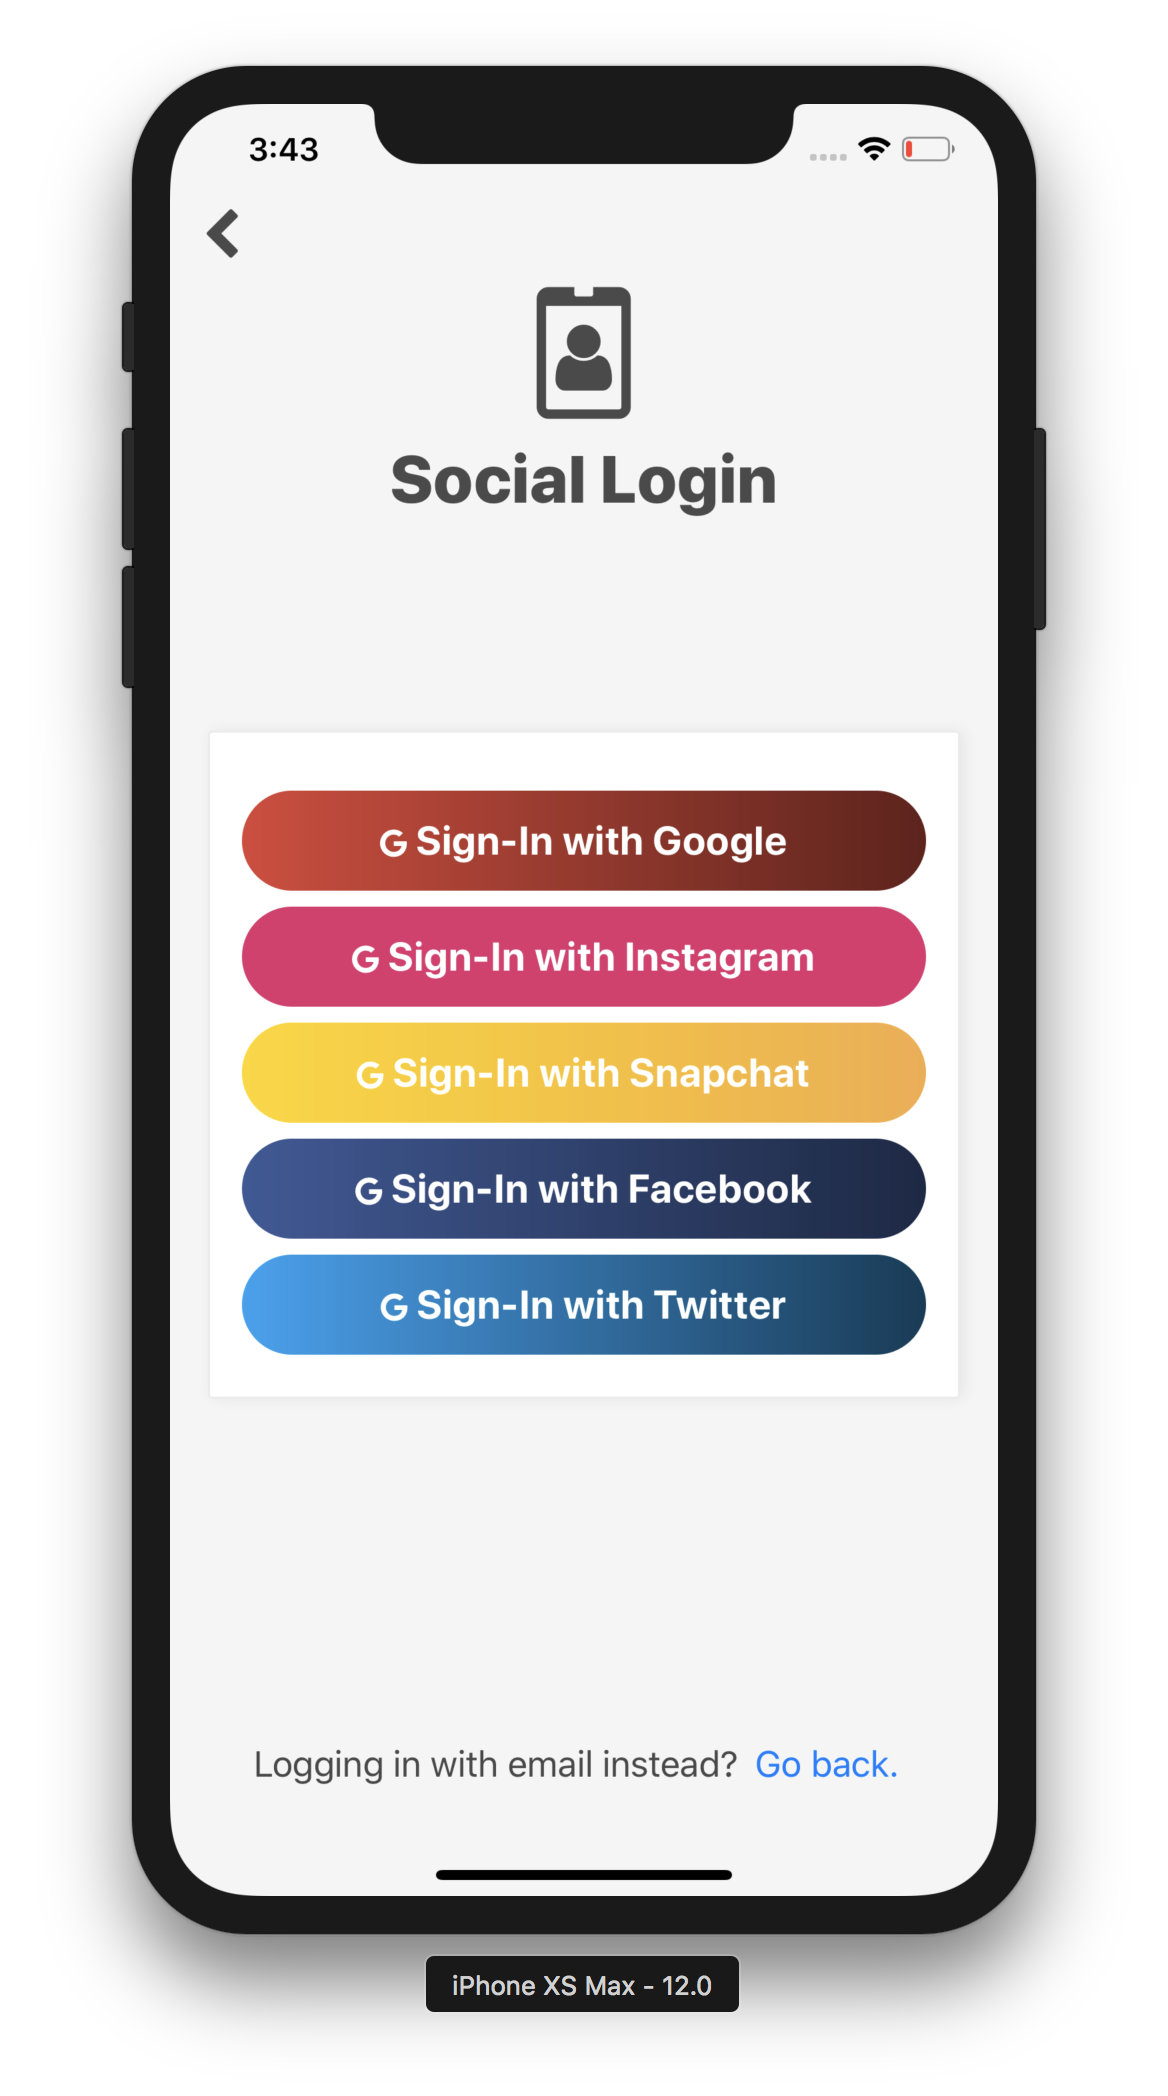
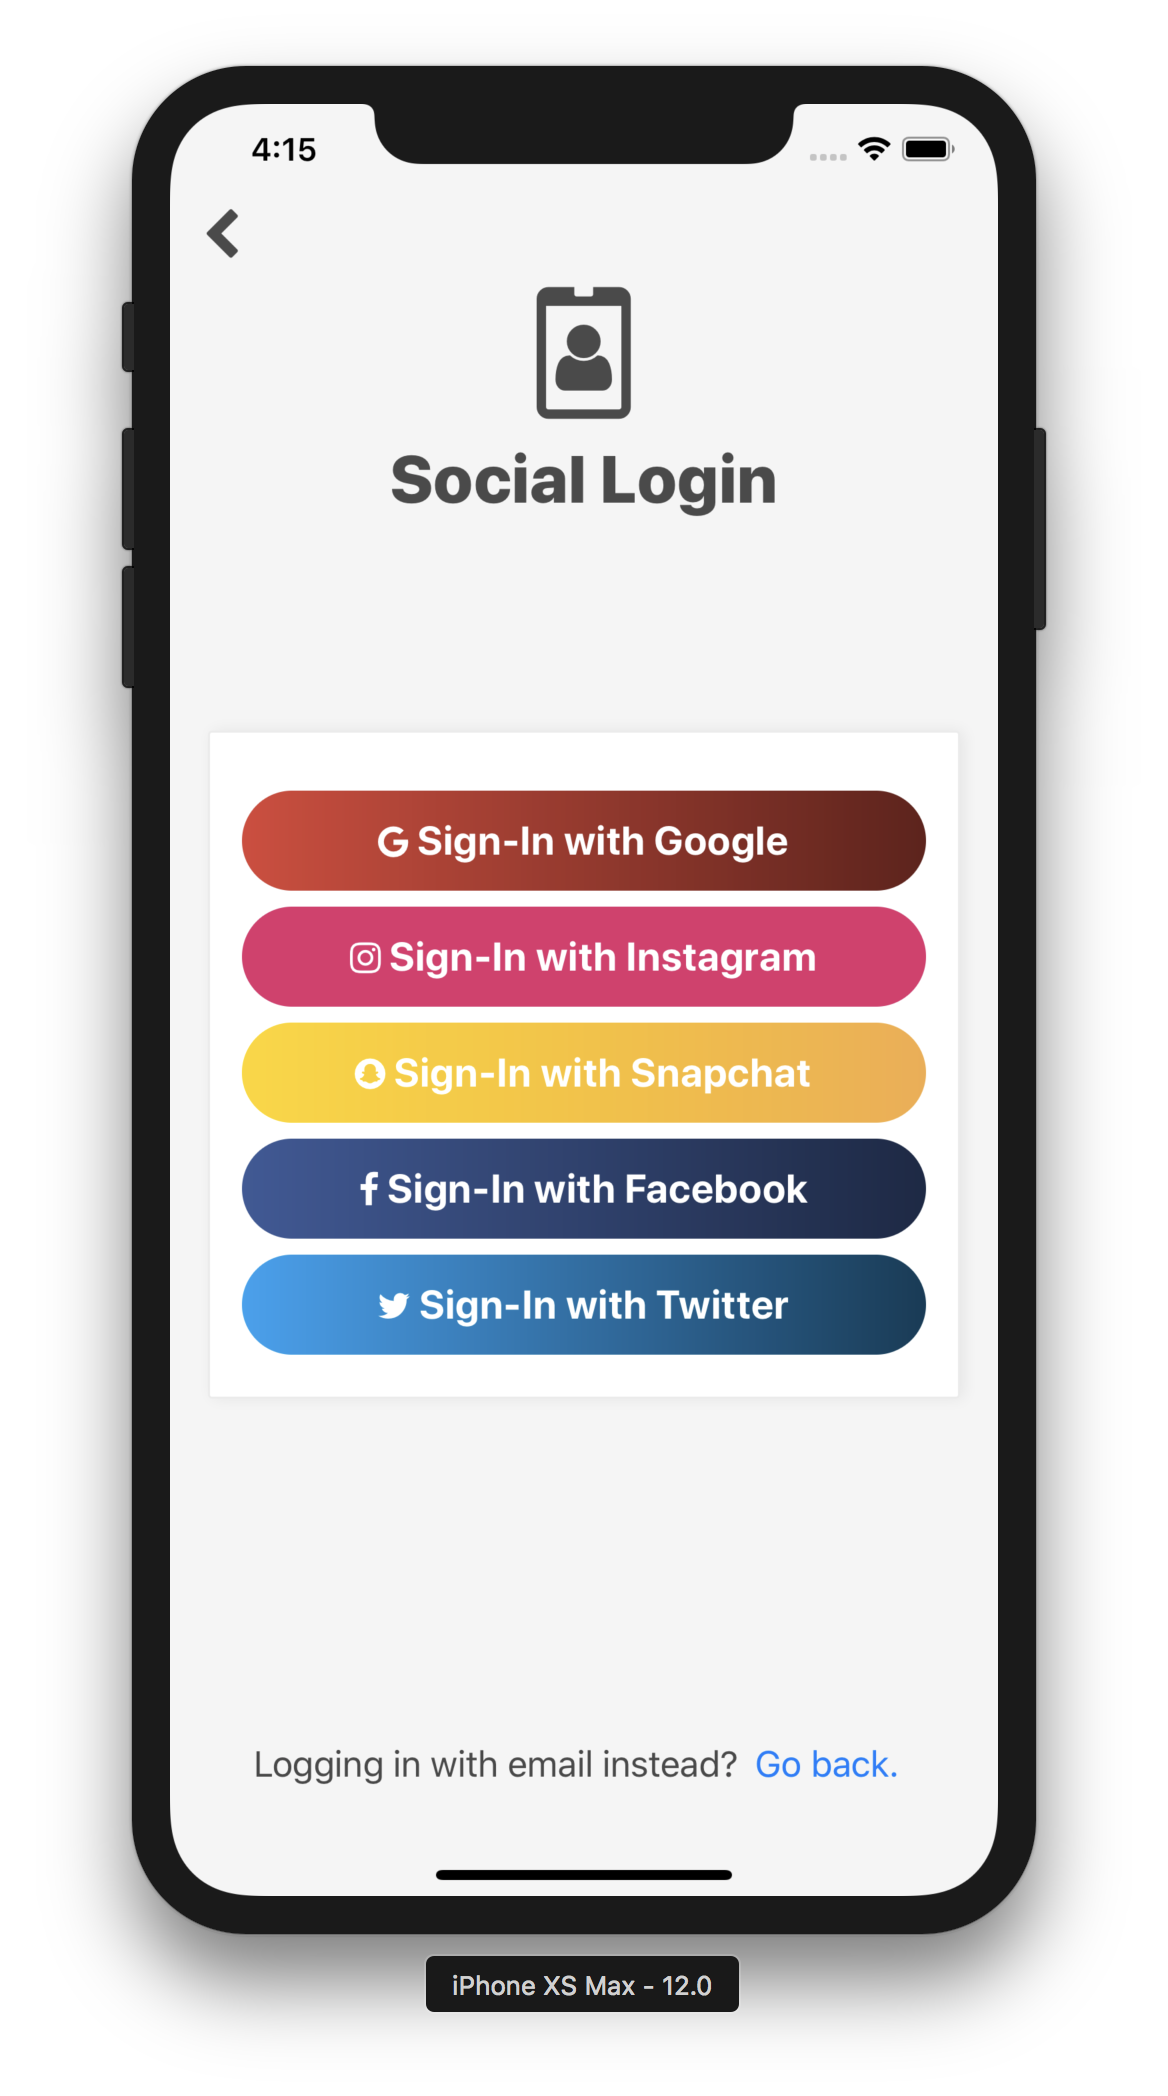
correct social buttons

diff --git a/src/SocialAuth.js b/src/SocialAuth.js
@@ -93,7 +93,7 @@ class SocialAuth extends React.PureComponent {
             >
               <FontAwesome
                 name="google"
-                style={{ color: "white", fontSize: 16 }}
+                style={{ color: "white", fontSize: 18 }}
               />{" "}
               Sign-In with Google
             </GradientButton>
@@ -107,8 +107,8 @@ class SocialAuth extends React.PureComponent {
               impact
             >
               <FontAwesome
-                name="google"
-                style={{ color: "white", fontSize: 16 }}
+                name="instagram"
+                style={{ color: "white", fontSize: 18 }}
               />{" "}
               Sign-In with Instagram
             </GradientButton>
@@ -122,8 +122,8 @@ class SocialAuth extends React.PureComponent {
               impact
             >
               <FontAwesome
-                name="google"
-                style={{ color: "white", fontSize: 16 }}
+                name="snapchat"
+                style={{ color: "white", fontSize: 18 }}
               />{" "}
               Sign-In with Snapchat
             </GradientButton>
@@ -137,8 +137,8 @@ class SocialAuth extends React.PureComponent {
               impact
             >
               <FontAwesome
-                name="google"
-                style={{ color: "white", fontSize: 16 }}
+                name="facebook"
+                style={{ color: "white", fontSize: 18 }}
               />{" "}
               Sign-In with Facebook
             </GradientButton>
@@ -152,8 +152,8 @@ class SocialAuth extends React.PureComponent {
               impact
             >
               <FontAwesome
-                name="google"
-                style={{ color: "white", fontSize: 16 }}
+                name="twitter"
+                style={{ color: "white", fontSize: 18 }}
               />{" "}
               Sign-In with Twitter
             </GradientButton>
